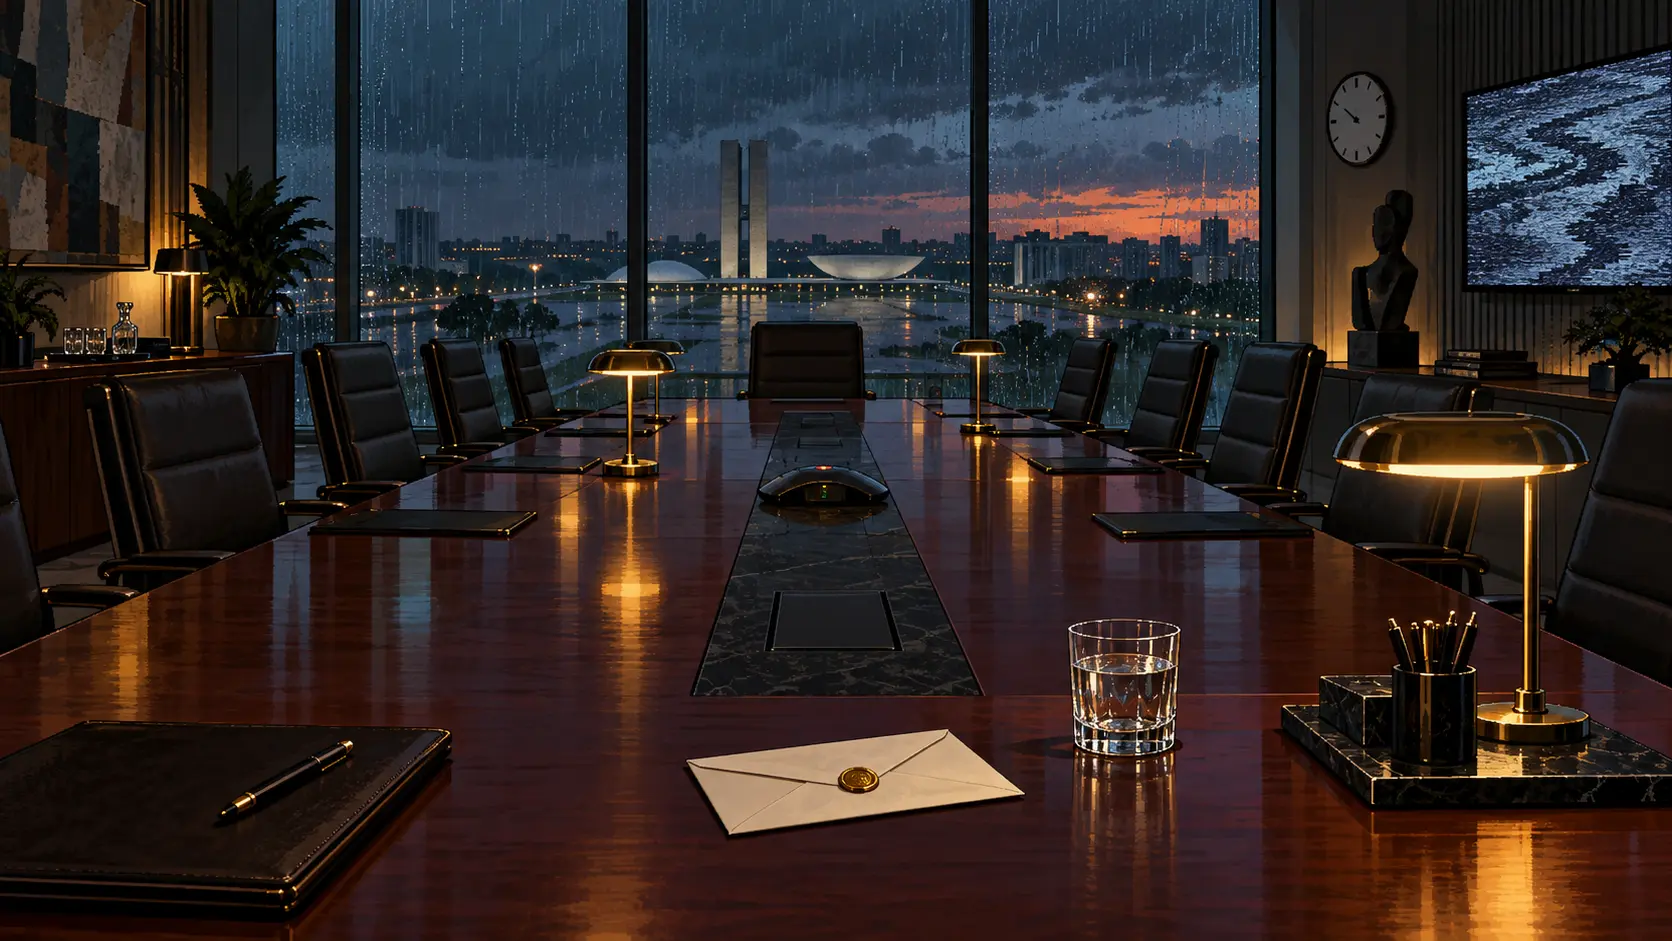
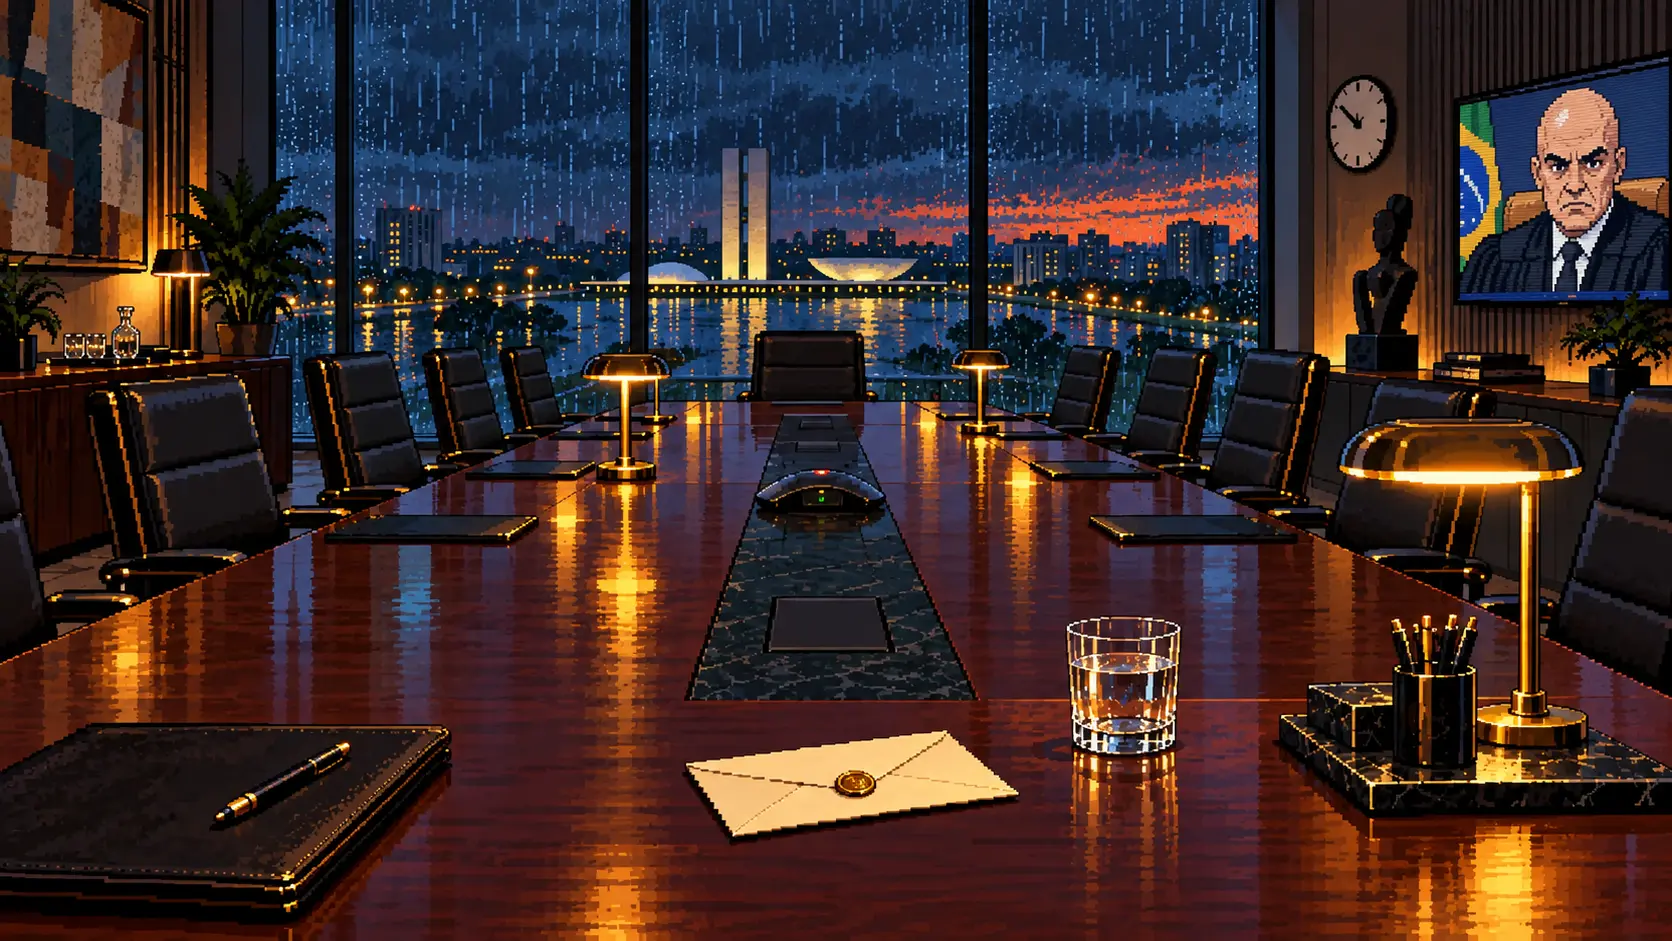
feat: shift game to caricatured pixel-art noir

diff --git a/styles.css b/styles.css
@@ -8,3 +8,23 @@
 .modal{position:fixed;z-index:50;inset:0;background:rgba(2,4,10,.72);display:grid;place-items:center;padding:max(1rem,env(safe-area-inset-top)) max(1rem,env(safe-area-inset-right)) max(1rem,env(safe-area-inset-bottom)) max(1rem,env(safe-area-inset-left));backdrop-filter:blur(7px)}.modal-panel{width:min(54rem,94vw);max-height:88vh;overflow:hidden;background:#0b1020;border:1px solid #7b6238;box-shadow:0 30px 90px #000}.modal-panel header{display:flex;justify-content:space-between;align-items:center;padding:1rem 1.2rem;border-bottom:1px solid #293047}.modal-panel header h2{font-family:Georgia,serif;margin:.08rem 0;font-size:1.45rem}.modal-panel header p{margin:0;color:var(--gold);font-size:.68rem;letter-spacing:.14em;text-transform:uppercase}.modal-panel header button{background:transparent;font-size:2rem;line-height:1;min-width:2.8rem;min-height:2.8rem}#modal-body{padding:1rem 1.2rem 1.4rem;overflow:auto;max-height:calc(88vh - 5rem)}.entry{border-bottom:1px solid #252c3f;padding:.8rem 0}.entry:last-child{border:0}.entry h3{margin:.18rem 0 .35rem;font-size:1rem}.entry p{margin:.2rem 0;color:#c6cad4;line-height:1.45;font-size:.88rem}.entry a{color:#efd08c}.tag{display:inline-block;font-size:.62rem;letter-spacing:.1em;padding:.18rem .38rem;border:1px solid #66512e;color:#f0c873}.tag.reportado{border-color:#53667e;color:#a9c8ec}.tag.alegado{border-color:#8d4e55;color:#ffafb7}.tag.dramatizacao{border-color:#79568d;color:#deb9f1}.messages .entry{padding:.7rem .8rem;border:0;margin:.45rem 0;background:#151c2f}.messages .mine{margin-left:12%;border-right:3px solid var(--gold)}.messages .theirs{margin-right:12%;border-left:3px solid var(--cyan)}.message-time{font-size:.65rem;color:#8790a4}.inventory-grid{display:grid;grid-template-columns:repeat(auto-fit,minmax(9rem,1fr));gap:.65rem}.item{min-height:7rem;background:#141a2a;border:1px solid #333c54;text-align:left;padding:.75rem}.item.selected{border-color:var(--gold);box-shadow:inset 0 0 0 1px var(--gold)}.item-icon{display:block;font-size:1.7rem;color:var(--gold)}.item strong{display:block;margin:.35rem 0;font-size:.86rem}.item small{color:#9fa7b8}.menu-actions{display:grid;gap:.6rem}.menu-actions button{min-height:3rem;background:#171e31;border:1px solid #37415b;text-align:left;padding:.7rem 1rem}.fact-note{padding:.9rem;background:#151b2b;border-left:3px solid var(--gold);font-size:.85rem;line-height:1.5}.ending{display:grid;grid-template-columns:1fr 1.3fr;gap:1.2rem;align-items:center}.ending h3{font-family:Georgia,serif;font-size:clamp(1.8rem,4vw,3rem);margin:.2rem 0}.ending p{line-height:1.55;color:#d3d5dc}.ending-stamp{aspect-ratio:1;display:grid;place-items:center;border:1px solid #806635;background:radial-gradient(circle,#222a42,#090d19 68%);font-family:Georgia,serif;text-align:center;color:#e9ca87;padding:1rem;box-shadow:inset 0 0 45px #000}.credits{font-size:.72rem;color:#8e96a8;margin-top:.8rem}
 @media (max-height:520px){#character{bottom:25vh;height:62vh}.dialogue{min-height:8.2rem;padding:.75rem 1rem}.start-copy{padding-top:1rem;padding-bottom:1rem}.start-note{margin:.4rem 0}.start-actions{margin:0}#line{margin:.35rem 0}.choice{min-height:2.4rem;padding:.45rem .7rem}#game-nav{top:.5rem}.hotspot{width:2.6rem}}@media (max-width:700px){#game-nav button{font-size:0;width:2.7rem;padding:0}#game-nav button span{font-size:1.05rem;margin:0}#game-nav b{font-size:.58rem;position:absolute}.start-copy{width:70vw}.ending{grid-template-columns:1fr}.ending-stamp{display:none}}
 @media (prefers-reduced-motion:reduce){*{animation:none!important;transition:none!important}}
+
+/* Pixel-noir visual-novel pass */
+:root{font-family:ui-monospace,"Cascadia Mono","SFMono-Regular",Consolas,"Liberation Mono",monospace;--gold:#ffbd58;--cyan:#5de4df;--glass:rgba(7,10,20,.96)}
+.start-art,#scene-bg{image-rendering:auto}
+.start-shade{background:linear-gradient(90deg,rgba(3,5,12,.97) 0%,rgba(3,5,12,.78) 43%,rgba(3,5,12,.08) 76%),repeating-linear-gradient(0deg,rgba(0,0,0,.12) 0 1px,transparent 1px 4px),linear-gradient(0deg,rgba(3,5,12,.82),transparent 54%)}
+.start-copy h1,.start-copy h2,#chapter,.modal-panel header h2,.ending h3,.ending-stamp{font-family:ui-monospace,"Cascadia Mono",Consolas,monospace;font-weight:900;text-shadow:3px 3px 0 #060812}
+.start-copy h1{letter-spacing:-.09em}.start-copy h2{color:#ffca70}.start-note,#line{font-family:ui-monospace,"Cascadia Mono",Consolas,monospace}
+.start-actions button,#game-nav button,.choice,.menu-actions button,.item{border-radius:0;box-shadow:3px 3px 0 rgba(0,0,0,.65)}
+.scene:before{content:"";position:absolute;z-index:4;inset:0;pointer-events:none;background:repeating-linear-gradient(0deg,rgba(5,8,16,.09) 0 1px,transparent 1px 4px);mix-blend-mode:multiply}
+.scene:after{background:linear-gradient(180deg,rgba(2,4,10,.18),transparent 28%,rgba(2,4,10,.12) 57%,rgba(2,4,10,.91) 100%)}
+.hotspot{border-radius:5px;border-width:2px;transform:rotate(45deg);background:rgba(12,17,31,.58);animation:pixelPulse 1.8s steps(4,end) infinite}
+.hotspot:after{inset:33%;border-radius:1px;box-shadow:0 0 0 2px rgba(255,228,164,.2),0 0 12px #f2b84b}
+@keyframes pixelPulse{0%,100%{box-shadow:0 0 0 0 rgba(242,184,75,.5)}50%{box-shadow:0 0 0 9px rgba(242,184,75,.08)}}
+#character{filter:drop-shadow(6px 9px 0 rgba(0,0,0,.48))}
+.dialogue{background:rgba(7,10,20,.97);border:2px solid #c89645;box-shadow:0 0 0 3px #050711,8px 8px 0 rgba(0,0,0,.7);backdrop-filter:none}
+#speaker{padding:.2rem .45rem;background:var(--gold);color:#14101a;text-shadow:none}
+#line{letter-spacing:.005em}.choice{background:#151b2d;border:1px solid #3b4560;border-left:5px solid var(--gold)}
+.choice:active{background:#29334d}.modal{backdrop-filter:none;background:rgba(2,4,10,.86)}
+.modal-panel{background:#0a0f1e;border:2px solid #94713b;box-shadow:0 0 0 3px #04060d,9px 9px 0 rgba(0,0,0,.72)}
+.entry,.messages .entry,.fact-note,.item,.menu-actions button{border-radius:0}

diff --git a/app.js b/app.js
@@ -56,7 +56,7 @@ const scenes = [
     hotspots:[
       {id:'relogio',label:'Relógio',x:82,y:14,lines:[['NARRADOR','22h17. No mercado financeiro, o tempo não passa: vence.'],['DANIEL','Ainda temos uma noite inteira.'],['HELENA','Essa frase nunca melhora uma noite.']]},
       {id:'agua',label:'Copo d’água',x:66,y:69,lines:[['OTÁVIO','Você não tocou na água.'],['DANIEL','Ela não vai a lugar nenhum.'],['OTÁVIO','Exatamente.']]},
-      {id:'tela',label:'Tela com estática',x:91,y:26,dossier:'veto',lines:[['CAIO','A ação do BRB caiu. A notícia correu antes da explicação.'],['DANIEL','Explicação corre de sapato. Rumor nasce de motocicleta.']]},
+      {id:'xandao_tv',label:'Xandão na TV',x:91,y:26,dossier:'veto',lines:[['CAIO','A ação do BRB caiu. A notícia correu antes da explicação.'],['NARRADOR','Na TV sem som, Alexandre de Moraes encara o plenário — e, por tabela, a sala.'],['CAIO','O Xandão está olhando para cá ou é impressão?'],['DANIEL','Em Brasília, até a televisão participa da reunião.'],['NARRADOR','Participação satírica. Nenhuma fala foi atribuída a Moraes nesta cena.']]},
       {id:'envelope',label:'Decisão do BC',x:49,y:77,required:true,dossier:'liminar',lines:[['HELENA','A decisão não veio com espaço para otimismo.'],['OTÁVIO','Mas veio sem proibir uma solução diferente.']],choices:[
         {text:'Divulgar uma nota neutra e procurar outro comprador.',effects:{trust:1,pressure:1},flag:'nota_neutra',reply:[['DANIEL','Sem ataque. Sem rendição. Digam que avaliamos alternativas.'],['CAIO','Uma frase que parece calma e soa como alarme.']]},
         {text:'Questionar publicamente o veto.',effects:{exposure:2,pressure:1,trust:-1},flag:'atacou_veto',reply:[['DANIEL','Se fecharam a porta, o público merece ouvir o estrondo.'],['HELENA','E quem ainda estava no corredor vai embora.']]},

diff --git a/index.html b/index.html
@@ -8,7 +8,7 @@
     <title>MASTER — Última Chamada</title>
     <link rel="preload" as="image" href="assets/office.webp" />
     <link rel="preload" as="image" href="assets/characters.webp" />
-    <link rel="stylesheet" href="styles.css" />
+    <link rel="stylesheet" href="styles.css?v=pixel-noir-2" />
   </head>
   <body>
     <div id="rotate" aria-hidden="true">
@@ -71,6 +71,6 @@
         </div>
       </div>
     </main>
-    <script src="app.js" defer></script>
+    <script src="app.js?v=pixel-noir-2" defer></script>
   </body>
 </html>

diff --git a/ART_BIBLE.md b/ART_BIBLE.md
@@ -1,8 +1,10 @@
 # Direção de arte
 
-- 2D cartum/pixel-art detalhado, drama noturno brasileiro; azul-marinho, âmbar, magenta e vermelho de alerta.
+- Pixel art 32-bit deliberada, caricatural e expressiva; contornos grossos, blocos de pixels visíveis e poucos gradientes. Clima acolhedor de visual novel noturna, sem copiar assets de `Coffee Talk`.
+- Paleta: azul-marinho e carvão; âmbar nas luzes; ciano/magenta nas bordas; vermelho apenas como alerta.
 - Câmera fixa 16:9, fundos sem personagens, diálogo ocupa o terço inferior.
 - Daniel: terno azul, camisa branca aberta, cabelo escuro penteado para trás, barba curta.
 - Helena (ficcional): blazer vinho, cabelo cacheado. Otávio (ficcional): terno grafite, grisalho, óculos. Caio (ficcional): camisa clara, celular. Investigadora (ficcional): jaqueta preta, cabelo preso.
 - `assets/characters.webp` é a referência mestra; manter rostos, roupa, proporções e luz em novas expressões.
-- Fundos: `office.webp`, `boardroom.webp`, `hangar.webp`, `interview.webp`. Arte original gerada para o jogo; sem reutilização de assets de Coffee Talk.
+- Fundos: `office.webp`, `boardroom.webp`, `hangar.webp`, `interview.webp`. Arte original gerada para o jogo.
+- Alexandre de Moraes aparece apenas como caricatura satírica muda na TV de `boardroom.webp`; nenhuma fala histórica é atribuída a ele.

diff --git a/STORY.md b/STORY.md
@@ -1,7 +1,7 @@
 # História implementada
 
 1. **A Ponte (mar/2025):** anúncio BRB; decidir transparência interna e postura pública.
-2. **Porta Fechada (set/2025):** veto do BC; escolher reação regulatória e pública.
+2. **Porta Fechada (set/2025):** veto do BC; escolher reação regulatória e pública. Cameo satírico mudo de Alexandre de Moraes na TV.
 3. **Segunda-feira (17/11/2025):** proposta Fictor, documentos e aviso da viagem.
 4. **Portão:** hangar em Guarulhos; embarcar, esperar ou voltar — prisão ocorre em qualquer rota.
 5. **A Manhã:** interrogatório dramatizado; cooperar, declarar ou silenciar.
